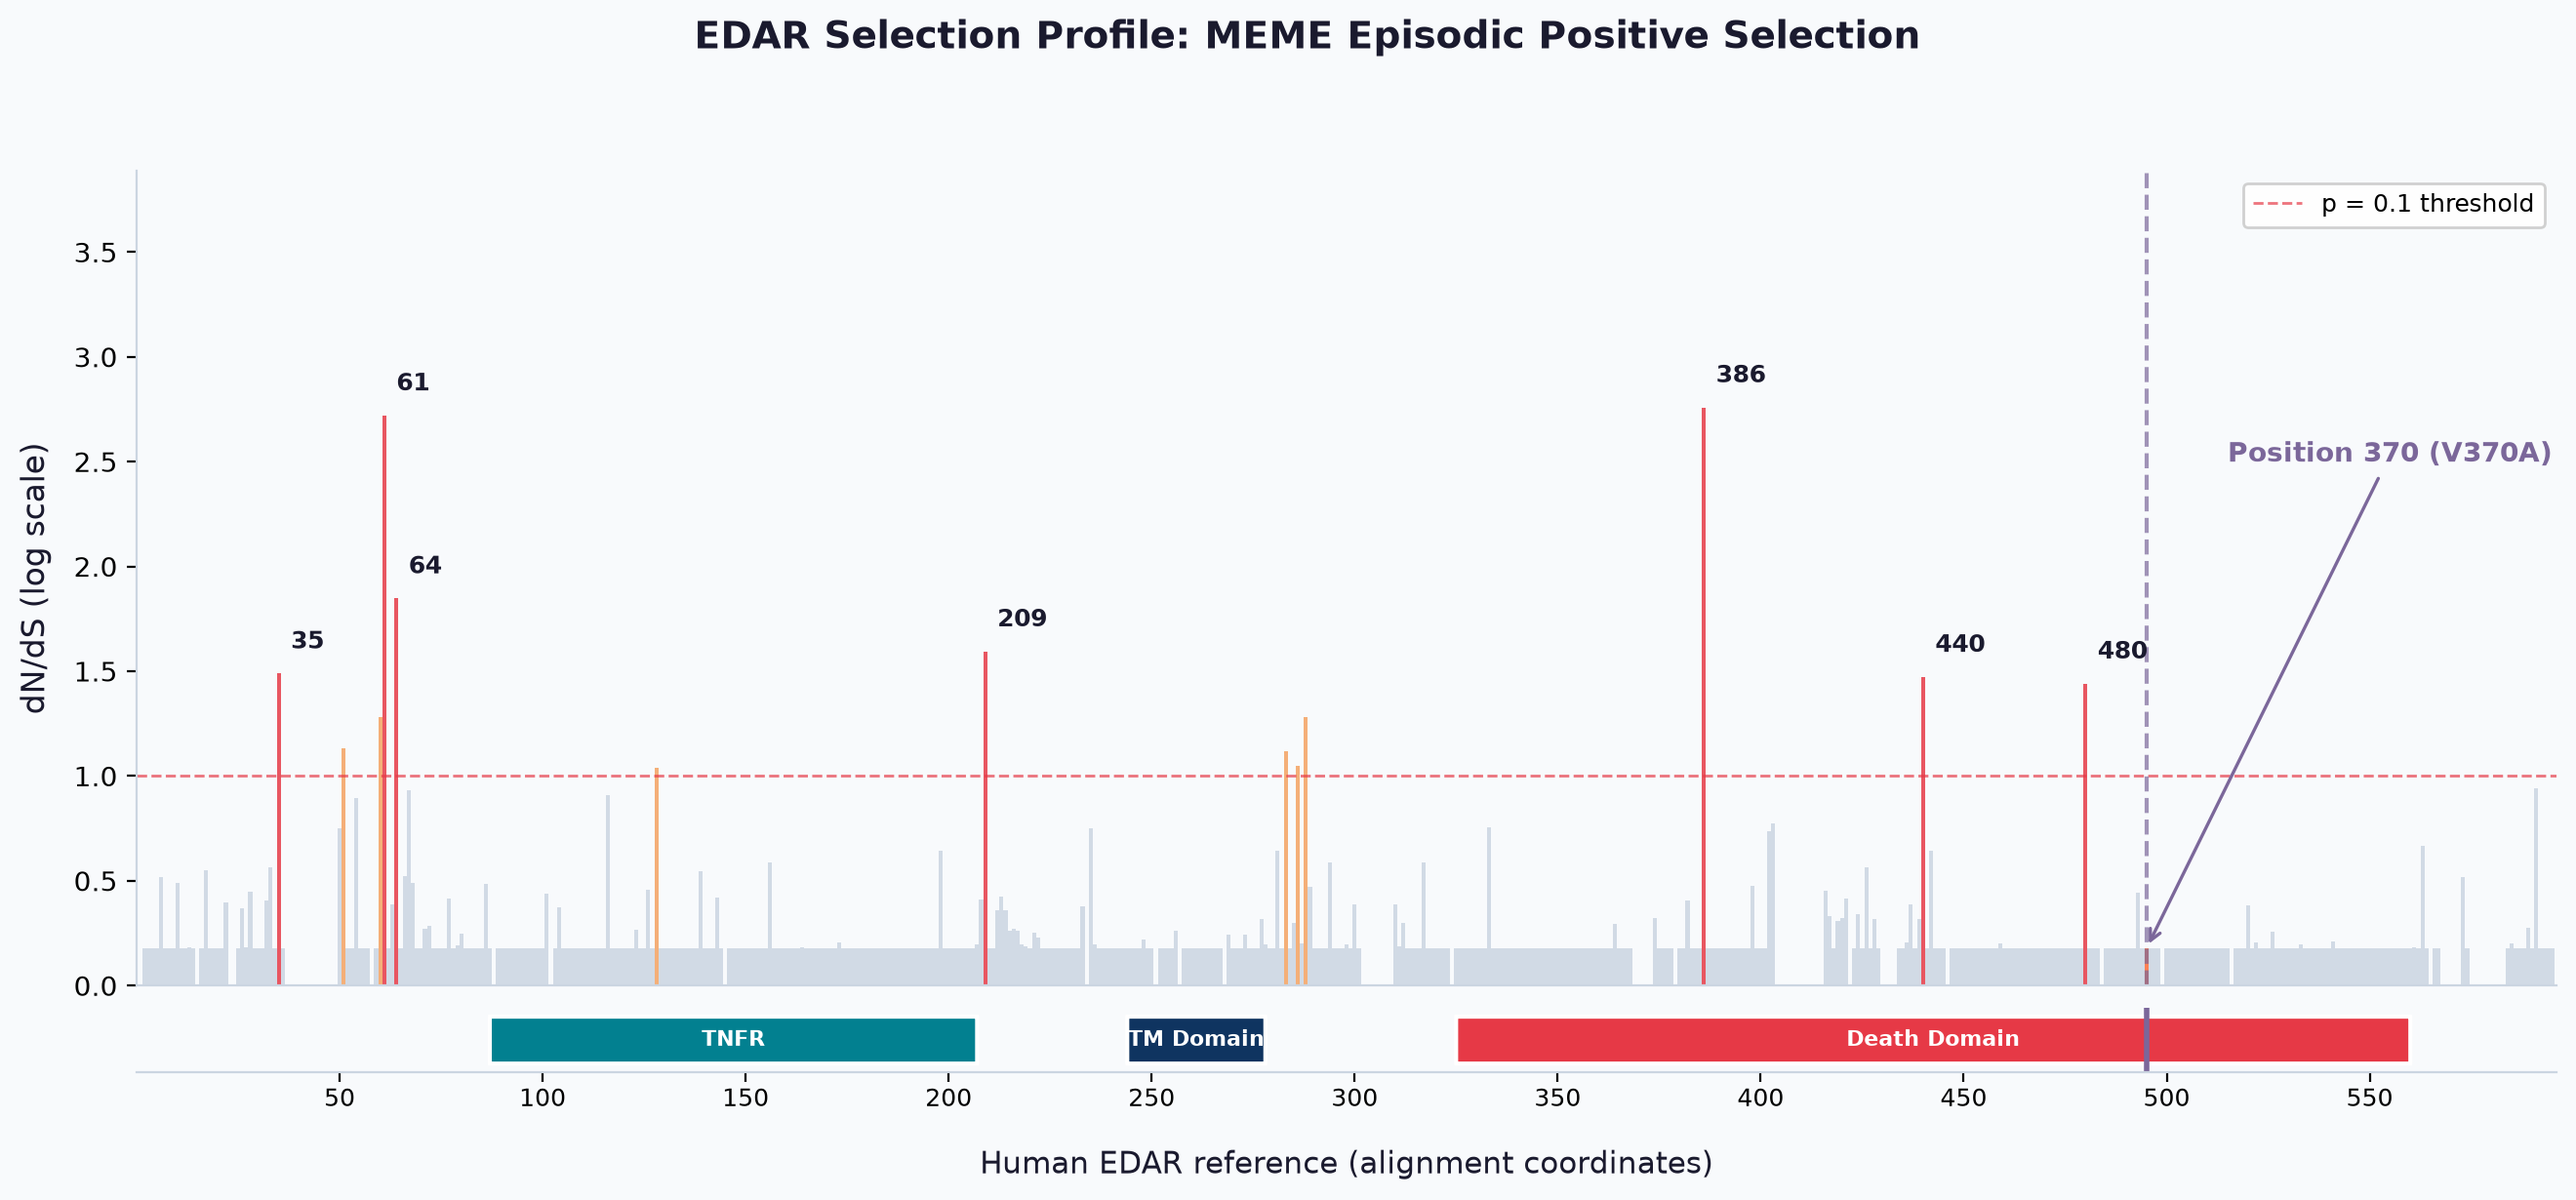
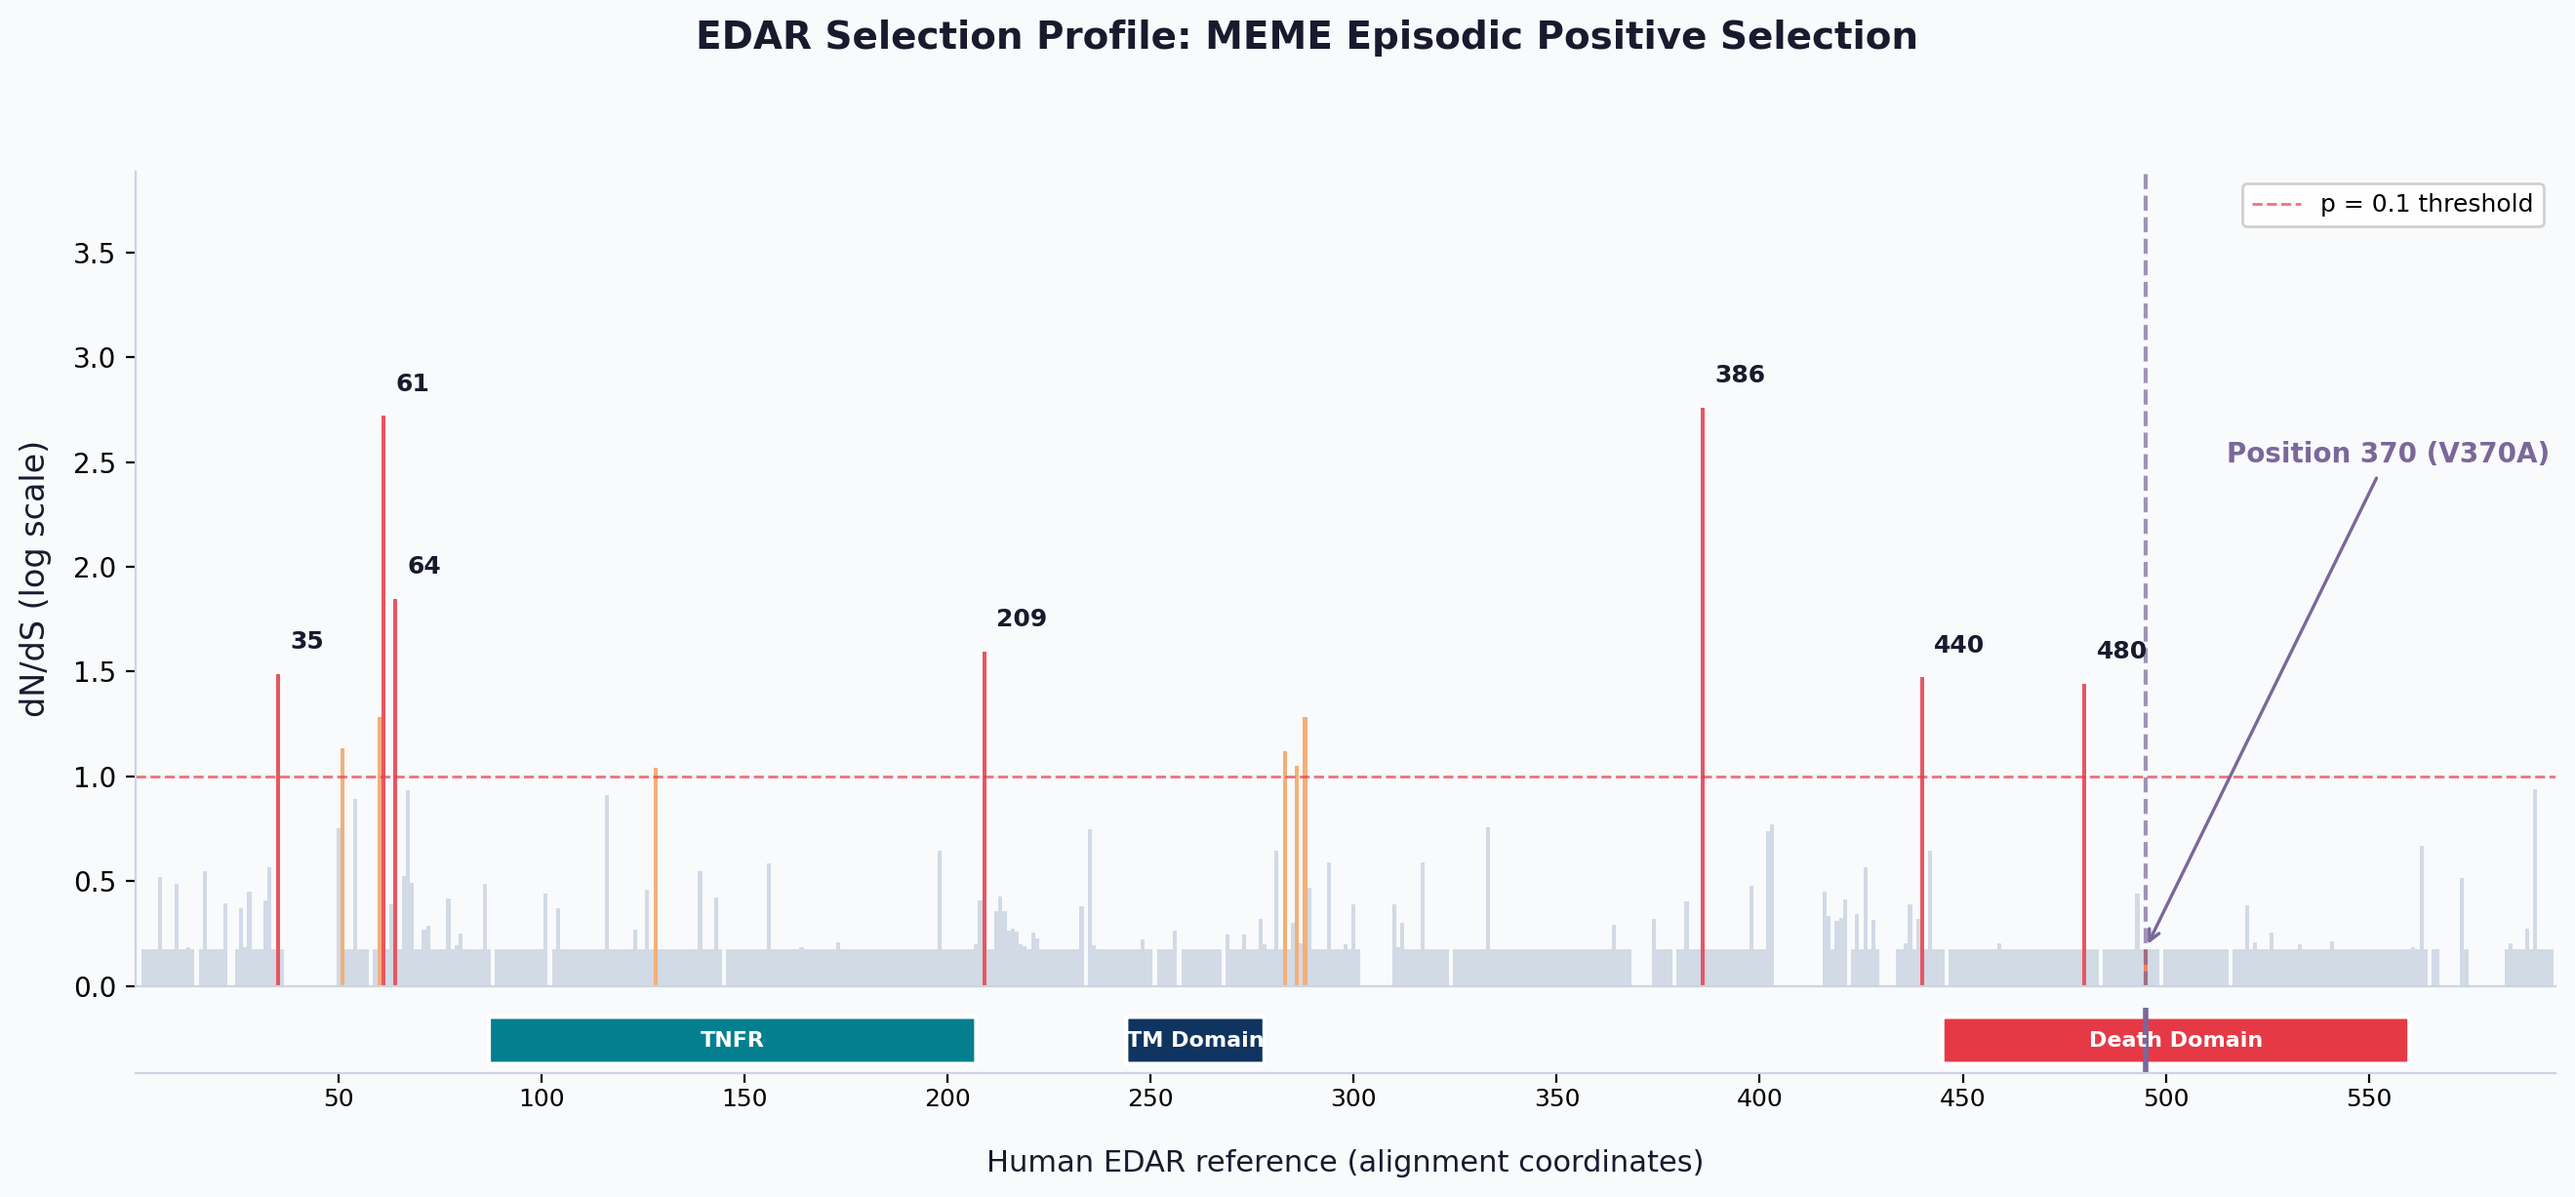
upload correct MEME plot

diff --git a/skripts_outputs/01_genomic/dNdS/dNdS_plots.py b/skripts_outputs/01_genomic/dNdS/dNdS_plots.py
@@ -1,0 +1,361 @@
+#!/usr/bin/env python3
+
+import json
+import numpy as np
+import matplotlib.pyplot as plt
+import matplotlib.patches as mpatches
+import matplotlib.gridspec as gridspec
+from Bio import SeqIO
+from Bio.Seq import Seq
+
+FEL_JSON = r"C:\Users\trann\Dokumente\Sommersemester 26\edar_project\data\results\species_list_edar_5.final_fel.json"
+MEME_JSON = r"C:\Users\trann\Dokumente\Sommersemester 26\edar_project\data\results\species_list_edar_5.final_meme.json"
+CODON_FASTA = r"C:\Users\trann\Dokumente\Sommersemester 26\edar_project\data\processed\species_list_edar_codon_5.final_aligned.fasta"
+
+HUMAN_KEYWORDS = ("homo_sapiens", "edar", "q9une0")
+
+POS_370_BIO = 370
+ZOOM_START_BIO = 360
+ZOOM_END_BIO = 380
+
+DOMAINS_PROTEIN = [{"name": "TNFR", "start": 30, "end": 149, "color": "#028090"},
+                   {"name": "TM Domain", "start": 185, "end": 219, "color": "#0F3460"},
+                   {"name": "Death Domain", "start": 321, "end": 435, "color": "#E63946"}, ]
+
+
+# get correct position by mapping the protein position to HyPhy alignemnt position
+def get_hyphy_site(codon_fasta_path, target_bio_pos, human_keywords=HUMAN_KEYWORDS):
+    records = list(SeqIO.parse(codon_fasta_path, "fasta"))
+    human = next((r for r in records if any(k in r.id.lower() for k in human_keywords)), None)
+    if human is None:
+        raise ValueError(f"No Human-Sequence: {[r.id for r in records[:5]]}")
+
+    seq = str(human.seq).upper()
+    assert len(seq) % 3 == 0, f"Length {len(seq)} couldn't diveded by 3. No Codon-Alignment!"
+
+    n_codons = len(seq) // 3
+    ungapped_protein_pos = 0
+    for i in range(n_codons):
+        codon = seq[i * 3:i * 3 + 3]
+        if codon == "---":
+            continue
+        if "-" in codon:
+            print(f"Check alignemnt at {i + 1}: '{codon}'")
+            continue
+        ungapped_protein_pos += 1
+        if ungapped_protein_pos == target_bio_pos:
+            return i + 1
+
+    raise ValueError(f"Position {target_bio_pos} outside sequence ({ungapped_protein_pos})")
+
+
+# get correct position by mapping the HyPhy alignment position to protein position
+def build_hyphy_to_protein_map(codon_fasta_path, human_keywords=HUMAN_KEYWORDS):
+    records = list(SeqIO.parse(codon_fasta_path, "fasta"))
+    human = next((r for r in records if any(k in r.id.lower() for k in human_keywords)), None)
+    if human is None:
+        raise ValueError(f"No human sequence: {codon_fasta_path}")
+
+    seq = str(human.seq).upper()
+    n_codons = len(seq) // 3
+    mapping = {}
+    protein_pos = 0
+    for i in range(n_codons):
+        codon = seq[i * 3:i * 3 + 3]
+        site = i + 1
+        if codon == "---":
+            mapping[site] = (None, "–")
+        elif "-" in codon:
+            mapping[site] = (None, "?")
+        else:
+            protein_pos += 1
+            aa = str(Seq(codon).translate())
+            mapping[site] = (protein_pos, aa)
+    return mapping
+
+
+POS_370_HYPHY = get_hyphy_site(CODON_FASTA, POS_370_BIO)
+ZOOM_START = get_hyphy_site(CODON_FASTA, ZOOM_START_BIO)
+ZOOM_END = get_hyphy_site(CODON_FASTA, ZOOM_END_BIO)
+hyphy_to_protein = build_hyphy_to_protein_map(CODON_FASTA)
+
+# save domains first
+DOMAINS = []
+for d in DOMAINS_PROTEIN:
+    DOMAINS.append({
+        "name": d["name"],
+        "start": get_hyphy_site(CODON_FASTA, d["start"]),
+        "end": get_hyphy_site(CODON_FASTA, d["end"]),
+        "color": d["color"],
+    })
+
+# FEL DATA FOR PLOTTING
+with open(FEL_JSON) as f:
+    fel = json.load(f)
+fel_content = fel["MLE"]["content"]["0"]
+n_fel = len(fel_content)
+fel_alpha = np.array([s[0] for s in fel_content])
+fel_beta = np.array([s[1] for s in fel_content])
+fel_pval = np.array([s[4] for s in fel_content])
+
+with np.errstate(divide='ignore', invalid='ignore'):
+    log_ratio = np.where(
+        (fel_alpha > 0) & (fel_beta > 0),
+        np.log2(fel_beta / fel_alpha),
+        np.where(fel_beta == 0, -4, 0)
+    )
+log_ratio = np.clip(log_ratio, -4, 4)
+positions = np.arange(1, n_fel + 1)
+
+# MEME DATA FOR PLOTTING
+with open(MEME_JSON) as f:
+    meme = json.load(f)
+meme_content = meme["MLE"]["content"]["0"]
+n_meme = len(meme_content)
+meme_pval = np.array([s[6] for s in meme_content])
+
+with np.errstate(divide='ignore', invalid='ignore'):
+    meme_neglog = np.where(meme_pval > 0, -np.log10(meme_pval), 10)
+meme_neglog = np.clip(meme_neglog, 0, 10)
+meme_positions = np.arange(1, n_meme + 1)
+
+
+def get_fel_colors(log_r, pvals, highlight):
+    colors = []
+    for i, (lr, pv) in enumerate(zip(log_r, pvals)):
+        site = i + 1
+        if site == highlight:
+            colors.append("#FF6B35")
+        elif pv <= 0.05 and lr > 0:
+            colors.append("#E63946")
+        elif pv <= 0.1 and lr > 0:
+            colors.append("#F4A261")
+        elif pv <= 0.05 and lr < 0:
+            colors.append("#028090")
+        elif pv <= 0.1 and lr < 0:
+            colors.append("#74C2CE")
+        else:
+            colors.append("#CBD5E1")
+    return colors
+
+
+def get_meme_colors(pvals, highlight):
+    colors = []
+    for i, pv in enumerate(pvals):
+        site = i + 1
+        if site == highlight:
+            colors.append("#FF6B35")
+        elif pv <= 0.05:
+            colors.append("#E63946")
+        elif pv <= 0.1:
+            colors.append("#F4A261")
+        else:
+            colors.append("#CBD5E1")
+    return colors
+
+
+colors_fel = get_fel_colors(log_ratio, fel_pval, POS_370_HYPHY)
+colors_meme = get_meme_colors(meme_pval, POS_370_HYPHY)
+
+
+def draw_domain_bar(ax, n_sites_axis, pos370, show_xlabel=True):
+    ax.set_facecolor("#F8FAFC")
+    ax.set_xlim(0, n_sites_axis + 1)
+    ax.set_ylim(0, 1)
+    ax.axis("off")
+
+    for d in DOMAINS:
+        rect = mpatches.FancyBboxPatch(
+            (d["start"], 0.15),
+            d["end"] - d["start"], 0.7,
+            boxstyle="round,pad=0.01",
+            facecolor=d["color"], edgecolor="white", linewidth=1.5,
+            transform=ax.transData
+        )
+        ax.add_patch(rect)
+        mid = (d["start"] + d["end"]) / 2
+        fontsize = 7 if d["name"] == "TM" else 8
+        ax.text(mid, 0.5, d["name"],
+                ha="center", va="center", fontsize=fontsize,
+                color="white", fontweight="bold",
+                transform=ax.transData)
+
+    ax.axvline(pos370, color="#7B679A", linewidth=2.0)
+
+    if show_xlabel:
+        tick_ax = ax.twiny()
+        tick_ax.set_xlim(0, n_sites_axis + 1)
+        tick_ax.set_xticks(list(range(50, n_sites_axis + 1, 50)))
+        tick_ax.xaxis.set_ticks_position("bottom")
+        tick_ax.xaxis.set_label_position("bottom")
+        tick_ax.set_xlabel("Human EDAR reference (alignment coordinates)",
+                           fontsize=11, color="#1A1A2E", labelpad=14)
+        tick_ax.tick_params(axis="x", labelsize=9, pad=2)
+        tick_ax.spines[["top", "right", "left"]].set_visible(False)
+        tick_ax.spines["bottom"].set_color("#CBD5E1")
+
+
+# FEL PLOT
+fig1 = plt.figure(figsize=(16, 7), facecolor="#F8FAFC")
+fig1.suptitle("EDAR Selection Profile: FEL Site-Specific dN/dS", fontsize=14, fontweight="bold", color="#1A1A2E",
+              y=1.01)
+
+gs1 = gridspec.GridSpec(2, 1, figure=fig1, height_ratios=[5, 0.4], hspace=0.05)
+ax_fel = fig1.add_subplot(gs1[0])
+ax_dom1 = fig1.add_subplot(gs1[1])
+
+ax_fel.set_facecolor("#F8FAFC")
+ax_fel.axhline(0, color="#64748B", linewidth=0.8, zorder=2)
+ax_fel.bar(positions, log_ratio, color=colors_fel, width=1.0, linewidth=0, zorder=3, alpha=0.85)
+ax_fel.axvline(POS_370_HYPHY, color="#7B679A", linewidth=1.5, linestyle="--", alpha=0.7, zorder=4)
+
+FEL_PVAL_THRESHOLD = 0.05
+N_FEL_LABELS = 3
+
+candidate_sites = [site for site in range(1, n_fel + 1)
+                   if fel_pval[site - 1] <= FEL_PVAL_THRESHOLD and site != POS_370_HYPHY]
+
+top_fel_sites = sorted(candidate_sites, key=lambda s: fel_pval[s - 1])[:N_FEL_LABELS]
+
+# Legende
+LEGEND_X_MIN = n_fel * 0.55
+LEGEND_Y_MIN = 2.0
+
+for site in top_fel_sites:
+    y_val = log_ratio[site - 1]
+    in_legend_zone = (site >= LEGEND_X_MIN) and (y_val >= LEGEND_Y_MIN)
+    offset = -1.0 if in_legend_zone else (0.5 if y_val >= 0 else -0.5)
+    ax_fel.annotate(str(site), xy=(site, y_val), xytext=(site + 2, y_val + offset),
+                    fontsize=9, color="#1A1A2E", arrowprops=dict(arrowstyle="-", color="#94A3B8", lw=0.8))
+
+ax_fel.annotate(f"Position {POS_370_BIO} (V370A)",
+                xy=(POS_370_HYPHY, log_ratio[POS_370_HYPHY - 1]),
+                xytext=(POS_370_HYPHY + 20, 2.8),
+                fontsize=10, color="#7B679A", fontweight="bold",
+                arrowprops=dict(arrowstyle="->", color="#7B679A", lw=1.2))
+
+ax_fel.set_ylabel("dN/dS (log scale)", fontsize=12, color="#1A1A2E", labelpad=8)
+ax_fel.set_xlim(0, n_fel + 1)
+ax_fel.set_ylim(-4.8, 4.8)
+ax_fel.set_xticks([])
+ax_fel.spines[["top", "right"]].set_visible(False)
+ax_fel.spines[["left", "bottom"]].set_color("#CBD5E1")
+
+legend_content = [mpatches.Patch(color="#E63946", label="Positive selection (p≤0.05)"),
+                  mpatches.Patch(color="#F4A261", label="Positive selection (p≤0.1)"),
+                  mpatches.Patch(color="#028090", label="Purifying selection (p≤0.05)"),
+                  mpatches.Patch(color="#74C2CE", label="Purifying selection (p≤0.1)"),
+                  mpatches.Patch(color="#CBD5E1", label="Neutral"),
+                  mpatches.Patch(color="#7B679A", label="Position 370 (V370A)"), ]
+
+ax_fel.legend(handles=legend_content, loc="upper right", fontsize=9, framealpha=0.9, ncol=2)
+
+draw_domain_bar(ax_dom1, n_fel, POS_370_HYPHY, show_xlabel=True)
+
+fig1.savefig("Fig1_FEL_v1.png", dpi=200, bbox_inches="tight", facecolor="#F8FAFC")
+print("Saved: Fig1_FEL.png")
+
+# MEME PLOT
+fig2 = plt.figure(figsize=(16, 6), facecolor="#F8FAFC")
+fig2.suptitle("EDAR Selection Profile: MEME Episodic Positive Selection", fontsize=14, fontweight="bold",
+              color="#1A1A2E", y=1.01)
+
+gs2 = gridspec.GridSpec(2, 1, figure=fig2, height_ratios=[5, 0.4], hspace=0.05)
+ax_meme = fig2.add_subplot(gs2[0])
+ax_dom2 = fig2.add_subplot(gs2[1])
+
+ax_meme.set_facecolor("#F8FAFC")
+ax_meme.bar(meme_positions, meme_neglog, color=colors_meme, width=1.0, linewidth=0, alpha=0.85)
+ax_meme.axhline(-np.log10(0.1), color="#E63946", linewidth=1.0, linestyle="--", alpha=0.7, label="p = 0.1 threshold")
+ax_meme.axvline(POS_370_HYPHY, color="#7B679A", linewidth=1.5, linestyle="--", alpha=0.7)
+
+MEME_PVAL_THRESHOLD = 0.1
+N_LABELS = 7
+
+significant_sites = [site for site in range(1, n_meme + 1)
+                     if meme_pval[site - 1] <= MEME_PVAL_THRESHOLD and site != POS_370_HYPHY]
+
+top_sites = sorted(significant_sites, key=lambda s: meme_pval[s - 1])[:N_LABELS]
+
+for site in top_sites:
+    y_val = meme_neglog[site - 1]
+    ax_meme.annotate(str(site), xy=(site, y_val), xytext=(site + 3, y_val + 0.12),
+                     fontsize=9, color="#1A1A2E", fontweight="bold")
+
+ax_meme.annotate(f"Position {POS_370_BIO} (V370A)",
+                 xy=(POS_370_HYPHY, meme_neglog[POS_370_HYPHY - 1]),
+                 xytext=(POS_370_HYPHY + 20, 2.5),
+                 fontsize=10, color="#7B679A", fontweight="bold",
+                 arrowprops=dict(arrowstyle="->", color="#7B679A", lw=1.2))
+
+ax_meme.set_ylabel("dN/dS (log scale)", fontsize=12, color="#1A1A2E", labelpad=8)
+ax_meme.set_xlim(0, n_meme + 1)
+ax_meme.set_ylim(0, max(meme_neglog) * 1.3 + 0.3)
+ax_meme.set_xticks([])
+ax_meme.spines[["top", "right"]].set_visible(False)
+ax_meme.spines[["left", "bottom"]].set_color("#CBD5E1")
+ax_meme.legend(fontsize=9, loc="upper right", framealpha=0.9)
+
+draw_domain_bar(ax_dom2, n_fel, POS_370_HYPHY, show_xlabel=True)
+
+fig2.savefig("Fig2_MEME.png", dpi=200, bbox_inches="tight", facecolor="#F8FAFC")
+print("Saved: Fig2_MEME.png")
+
+# SURROUNDING OF POSITION 370
+fig3, ax_zoom = plt.subplots(figsize=(10, 6), facecolor="#F8FAFC")
+fig3.suptitle(f"EDAR around Position {POS_370_BIO} (V370A)", fontsize=14, fontweight="bold", color="#1A1A2E", y=1.01)
+
+ax_zoom.set_facecolor("#F0F4FF")
+
+zoom_range = range(ZOOM_START - 1, ZOOM_END)
+zoom_pos = [i + 1 for i in zoom_range]
+zoom_ratio = [log_ratio[i] for i in zoom_range if i < n_fel]
+zoom_pval = [fel_pval[i] for i in zoom_range if i < n_fel]
+zoom_colors = get_fel_colors(zoom_ratio, zoom_pval, POS_370_HYPHY)
+
+ax_zoom.axhline(0, color="#64748B", linewidth=0.8, zorder=2)
+ax_zoom.bar(zoom_pos[:len(zoom_ratio)], zoom_ratio, color=zoom_colors, width=0.7,
+            linewidth=0.5, edgecolor="white", zorder=3)
+ax_zoom.axvline(POS_370_HYPHY, color="#FF6B35", linewidth=2.0, linestyle="--", alpha=0.8, zorder=4)
+
+for i, pos in enumerate(zoom_pos[:len(zoom_ratio)]):
+    protein_pos, aa = hyphy_to_protein.get(pos, (None, None))
+    if aa is not None:
+        color = "#FF6B35" if pos == POS_370_HYPHY else "#374151"
+        weight = "bold" if pos == POS_370_HYPHY else "normal"
+        ax_zoom.text(pos, -5.1, aa, ha="center", va="top",
+                     fontsize=11, color=color, fontweight=weight, fontfamily="monospace")
+
+ax_zoom.annotate(f"V{POS_370_BIO}A\n(East Asian\nselective sweep)",
+                 xy=(POS_370_HYPHY, log_ratio[POS_370_HYPHY - 1]),
+                 xytext=(POS_370_HYPHY + 3, 2.8),
+                 fontsize=10, color="#FF6B35", fontweight="bold",
+                 arrowprops=dict(arrowstyle="->", color="#FF6B35", lw=1.5))
+
+ax_zoom.text(ZOOM_START, 3.8, "Purifying selection at this region", fontsize=9, color="#028090", style="italic")
+
+aa_at_sites = zoom_pos[::2]
+aa_labels = []
+for site in aa_at_sites:
+    protein_pos, _ = hyphy_to_protein.get(site, (None, None))
+    aa_labels.append(str(protein_pos) if protein_pos is not None else "–")
+
+ax_zoom.set_xticks(aa_at_sites)
+ax_zoom.set_xticklabels(aa_labels, fontsize=10, rotation=45)
+ax_zoom.set_xlabel("Amino Acid Position", fontsize=12, color="#1A1A2E", labelpad=8)
+ax_zoom.set_ylabel("dN/dS (log scale)", fontsize=12, color="#1A1A2E", labelpad=8)
+ax_zoom.set_xlim(ZOOM_START - 0.8, ZOOM_END + 0.8)
+ax_zoom.set_ylim(-5.5, 4.5)
+ax_zoom.spines[["top", "right"]].set_visible(False)
+ax_zoom.spines[["left", "bottom"]].set_color("#CBD5E1")
+
+legend_content = [mpatches.Patch(color="#028090", label="Purifying (p≤0.05)"),
+                  mpatches.Patch(color="#74C2CE", label="Purifying (p≤0.1)"),
+                  mpatches.Patch(color="#CBD5E1", label="Neutral"),
+                  mpatches.Patch(color="#FF6B35", label="Position 370 (V370A)"), ]
+
+ax_zoom.legend(handles=legend_content, loc="upper right", fontsize=9, framealpha=0.9)
+
+fig3.tight_layout()
+fig3.savefig("Fig3_Zoom_370_v1.png", dpi=200, bbox_inches="tight", facecolor="#F8FAFC")
+print("Saved: Fig3_Zoom_370.png")
